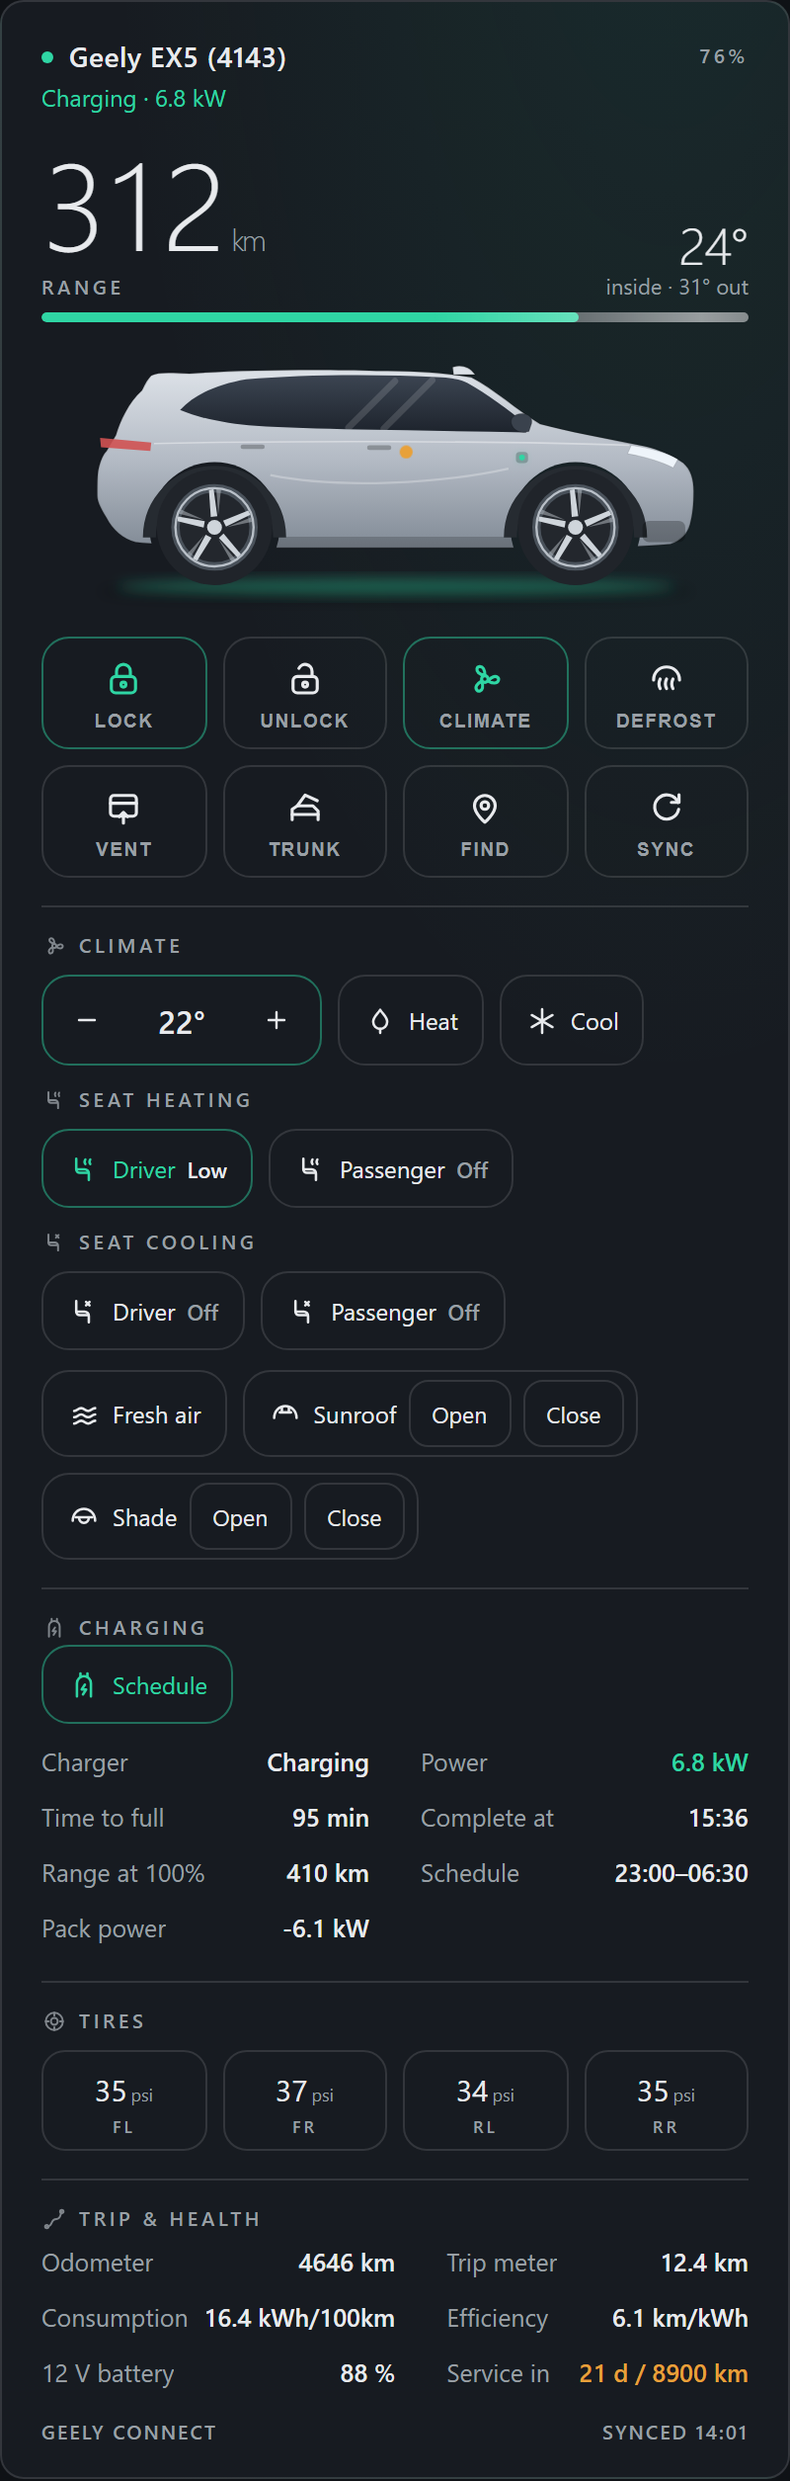
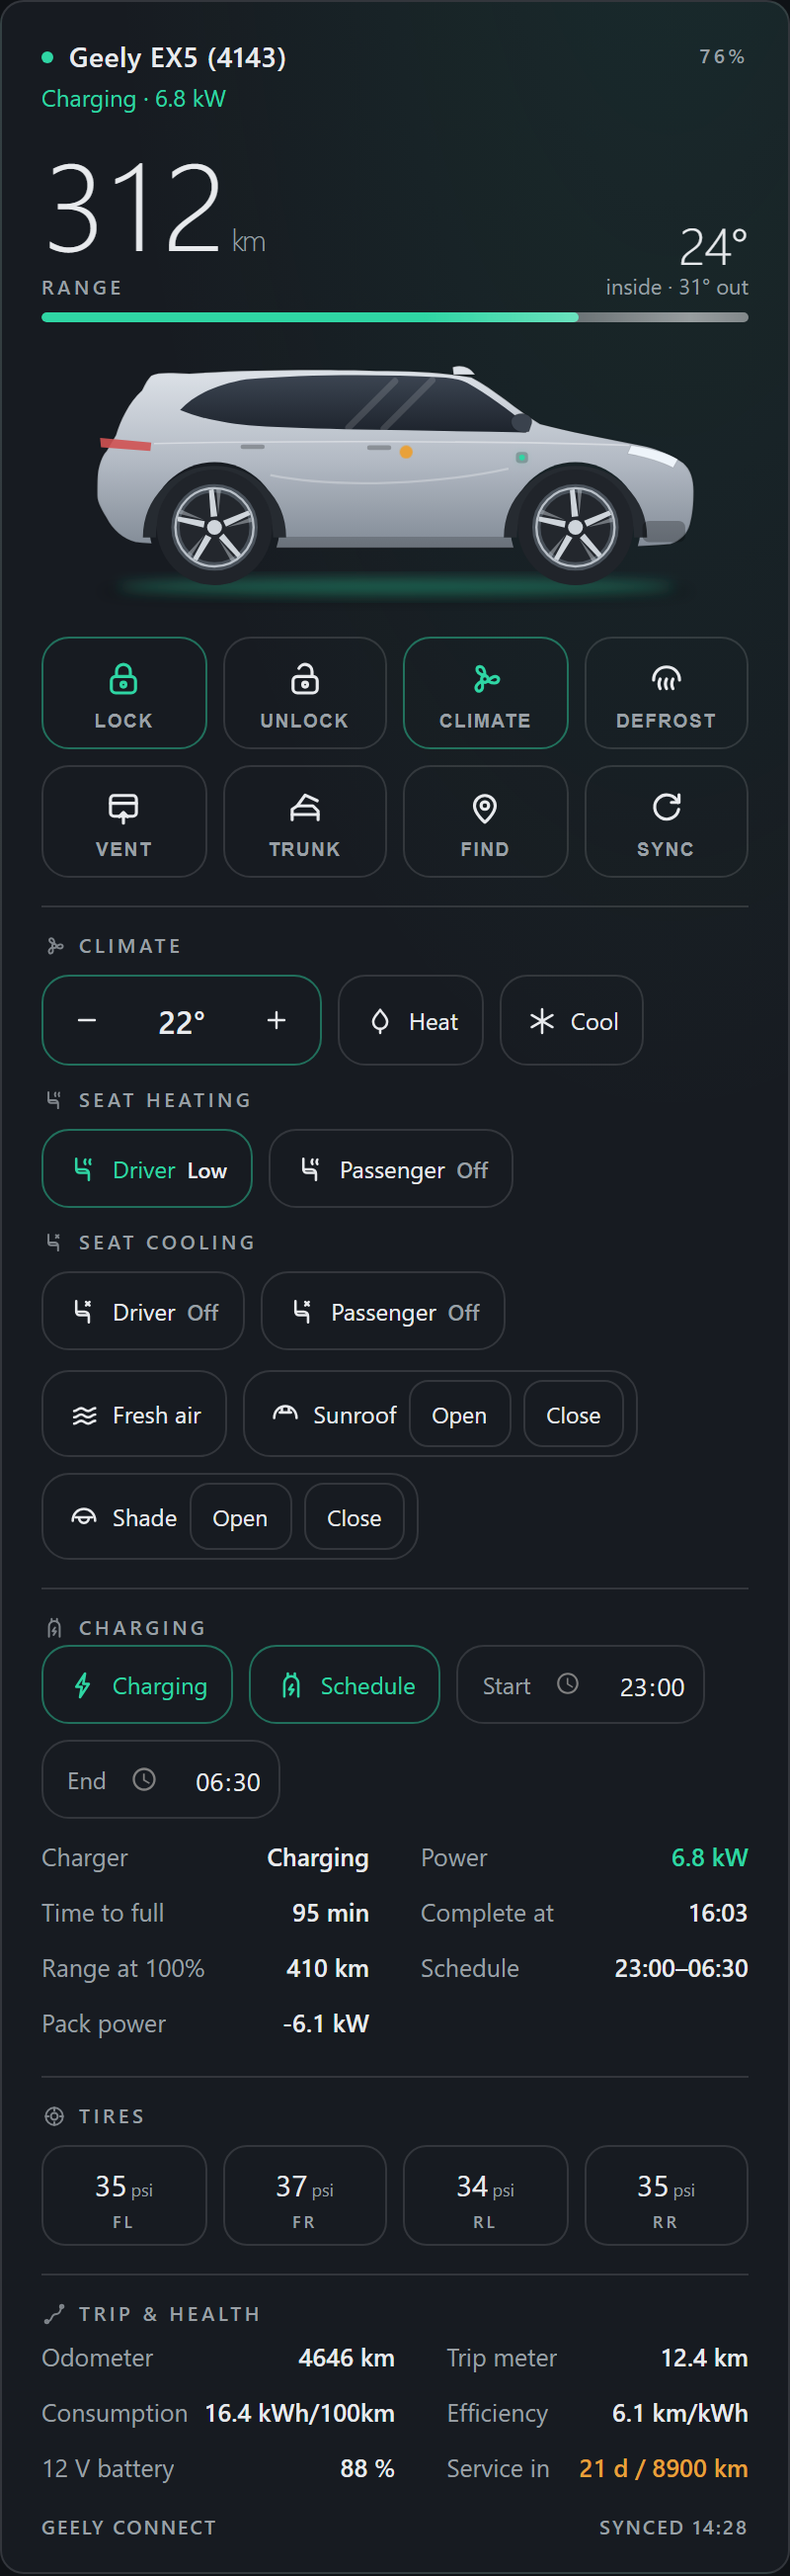
Editable schedule start / end on the big cards
The Charging row grows the piece #15 asked for by name: when the
schedule is armed, Start and End appear beside the toggles as native
time inputs - phones open their own picker - and a change calls
time.set_value on the matching entity. Off means hidden: an unarmed
schedule shows only the toggle, and a trim without the time entities
shows nothing extra at all. Values follow the entity state, so an edit
made anywhere else appears here on the next poll.

Refs #15
Claude-Session: https://claude.ai/code/session_01FKHdFjgidnPWAfMswcmmwA

diff --git a/custom_components/geely_connect/geely-card.js b/custom_components/geely_connect/geely-card.js
@@ -460,6 +460,14 @@
              border-radius:14px; font-size:12px; }
     .cpair svg { width:17px; height:17px; }
     .cpair.on { color:${ACCENT}; border-color: color-mix(in srgb, ${ACCENT} 45%, transparent); }
+    .ctime { display:flex; align-items:center; gap:7px; padding:0 6px 0 12px;
+             border:1px solid var(--divider-color, rgba(120,130,140,.25));
+             border-radius:14px; font-size:12px; color: var(--secondary-text-color); }
+    .ctime input { border:none; background:none; color: var(--primary-text-color);
+                   font: inherit; font-size:13px; font-variant-numeric: tabular-nums;
+                   padding:9px 2px; min-height:38px; cursor:pointer; width:74px; }
+    .ctime input:focus { outline:none; }
+    .ctime input::-webkit-calendar-picker-indicator { filter: invert(.5); cursor:pointer; }
     .cmini { border:1px solid var(--divider-color, rgba(120,130,140,.3));
              background:none; color:var(--primary-text-color); font:inherit;
              font-size:11.5px; padding:8px 11px; min-height:34px; border-radius:10px;
@@ -722,6 +730,12 @@
     _wire() {
       this.shadowRoot.querySelectorAll("[data-act]").forEach((el) =>
         el.addEventListener("click", () => this._onAction(el.dataset.act)));
+      this.shadowRoot.querySelectorAll("input[data-time]").forEach((el) =>
+        el.addEventListener("change", () => {
+          if (/^\d\d:\d\d$/.test(el.value)) {
+            this._call("time", "set_value", el.dataset.time, { time: `${el.value}:00` });
+          }
+        }));
     }
 
     _preset() {
@@ -736,11 +750,22 @@
       const sw = this._st("switch.charging");
       const sched = this._st("switch.scheduled_charging");
       if (!sw && !sched) return "";
+      // The start / end editors appear only while the schedule is armed
+      // (#15) - native time inputs, so phones get their own picker.
+      const timeBox = (suffix, label) => {
+        const st = this._st(`time.${suffix}`);
+        if (!st || !/^\d\d:\d\d/.test(st.state)) return "";
+        return `<label class="ctime">${esc(label)}
+          <input type="time" data-time="${suffix}" value="${esc(st.state.slice(0, 5))}"></label>`;
+      };
+      const schedOn = sched && sched.state === "on";
       return `<div class="crow wrap" style="margin:2px 0 6px">
         ${sw ? `<button class="cbtn ${sw.state === "on" ? "on" : ""}" data-act="charging_sw"
           title="Start / stop charging">${icon("bolt")}<span>Charging</span></button>` : ""}
-        ${sched ? `<button class="cbtn ${sched.state === "on" ? "on" : ""}" data-act="sched_sw"
+        ${sched ? `<button class="cbtn ${schedOn ? "on" : ""}" data-act="sched_sw"
           title="Scheduled charging on / off">${icon("charge")}<span>Schedule</span></button>` : ""}
+        ${schedOn ? timeBox("scheduled_charging_start", "Start") : ""}
+        ${schedOn ? timeBox("scheduled_charging_end", "End") : ""}
       </div>`;
     }
 

diff --git a/README.md b/README.md
@@ -166,7 +166,7 @@ dashboard, **Add card**, and search "Geely":
 
 | Card | What it is |
 |---|---|
-| **Geely Card** (`custom:geely-card`) | The full cockpit: range and battery up top, the EX5 silhouette that glows while charging and flags every opening, one-tap Lock / Unlock / Climate / Defrost / Vent / Trunk / Find / Sync, a full climate panel (temperature, rapid heat / cool, seat heating and cooling, fresh air, sunroof and shade), charging and schedule toggles, then charging, tires, trip and service health - each block hides itself when the car doesn't report it |
+| **Geely Card** (`custom:geely-card`) | The full cockpit: range and battery up top, the EX5 silhouette that glows while charging and flags every opening, one-tap Lock / Unlock / Climate / Defrost / Vent / Trunk / Find / Sync, a full climate panel (temperature, rapid heat / cool, seat heating and cooling, fresh air, sunroof and shade), charging and schedule toggles with editable start / end times, then charging, tires, trip and service health - each block hides itself when the car doesn't report it |
 | **Geely Card (top view)** (`custom:geely-card-top`) | The car from above: tire pressure beside each wheel, bold live status on every door, the hood, the sunroof and the trunk - with the same header, actions and climate panel |
 | **Geely Card (compact)** (`custom:geely-card-compact`) | The essentials in one tile: battery, range, status chips - and Lock, Unlock, rapid Heat / Cool, Defrost and Trunk |
 | **Geely Card (mini)** (`custom:geely-card-mini`) | A small square: range, cabin temperature, status, a lock button that follows the car (locked offers Unlock, unlocked offers Lock), and one-tap quick heat / quick cool |
